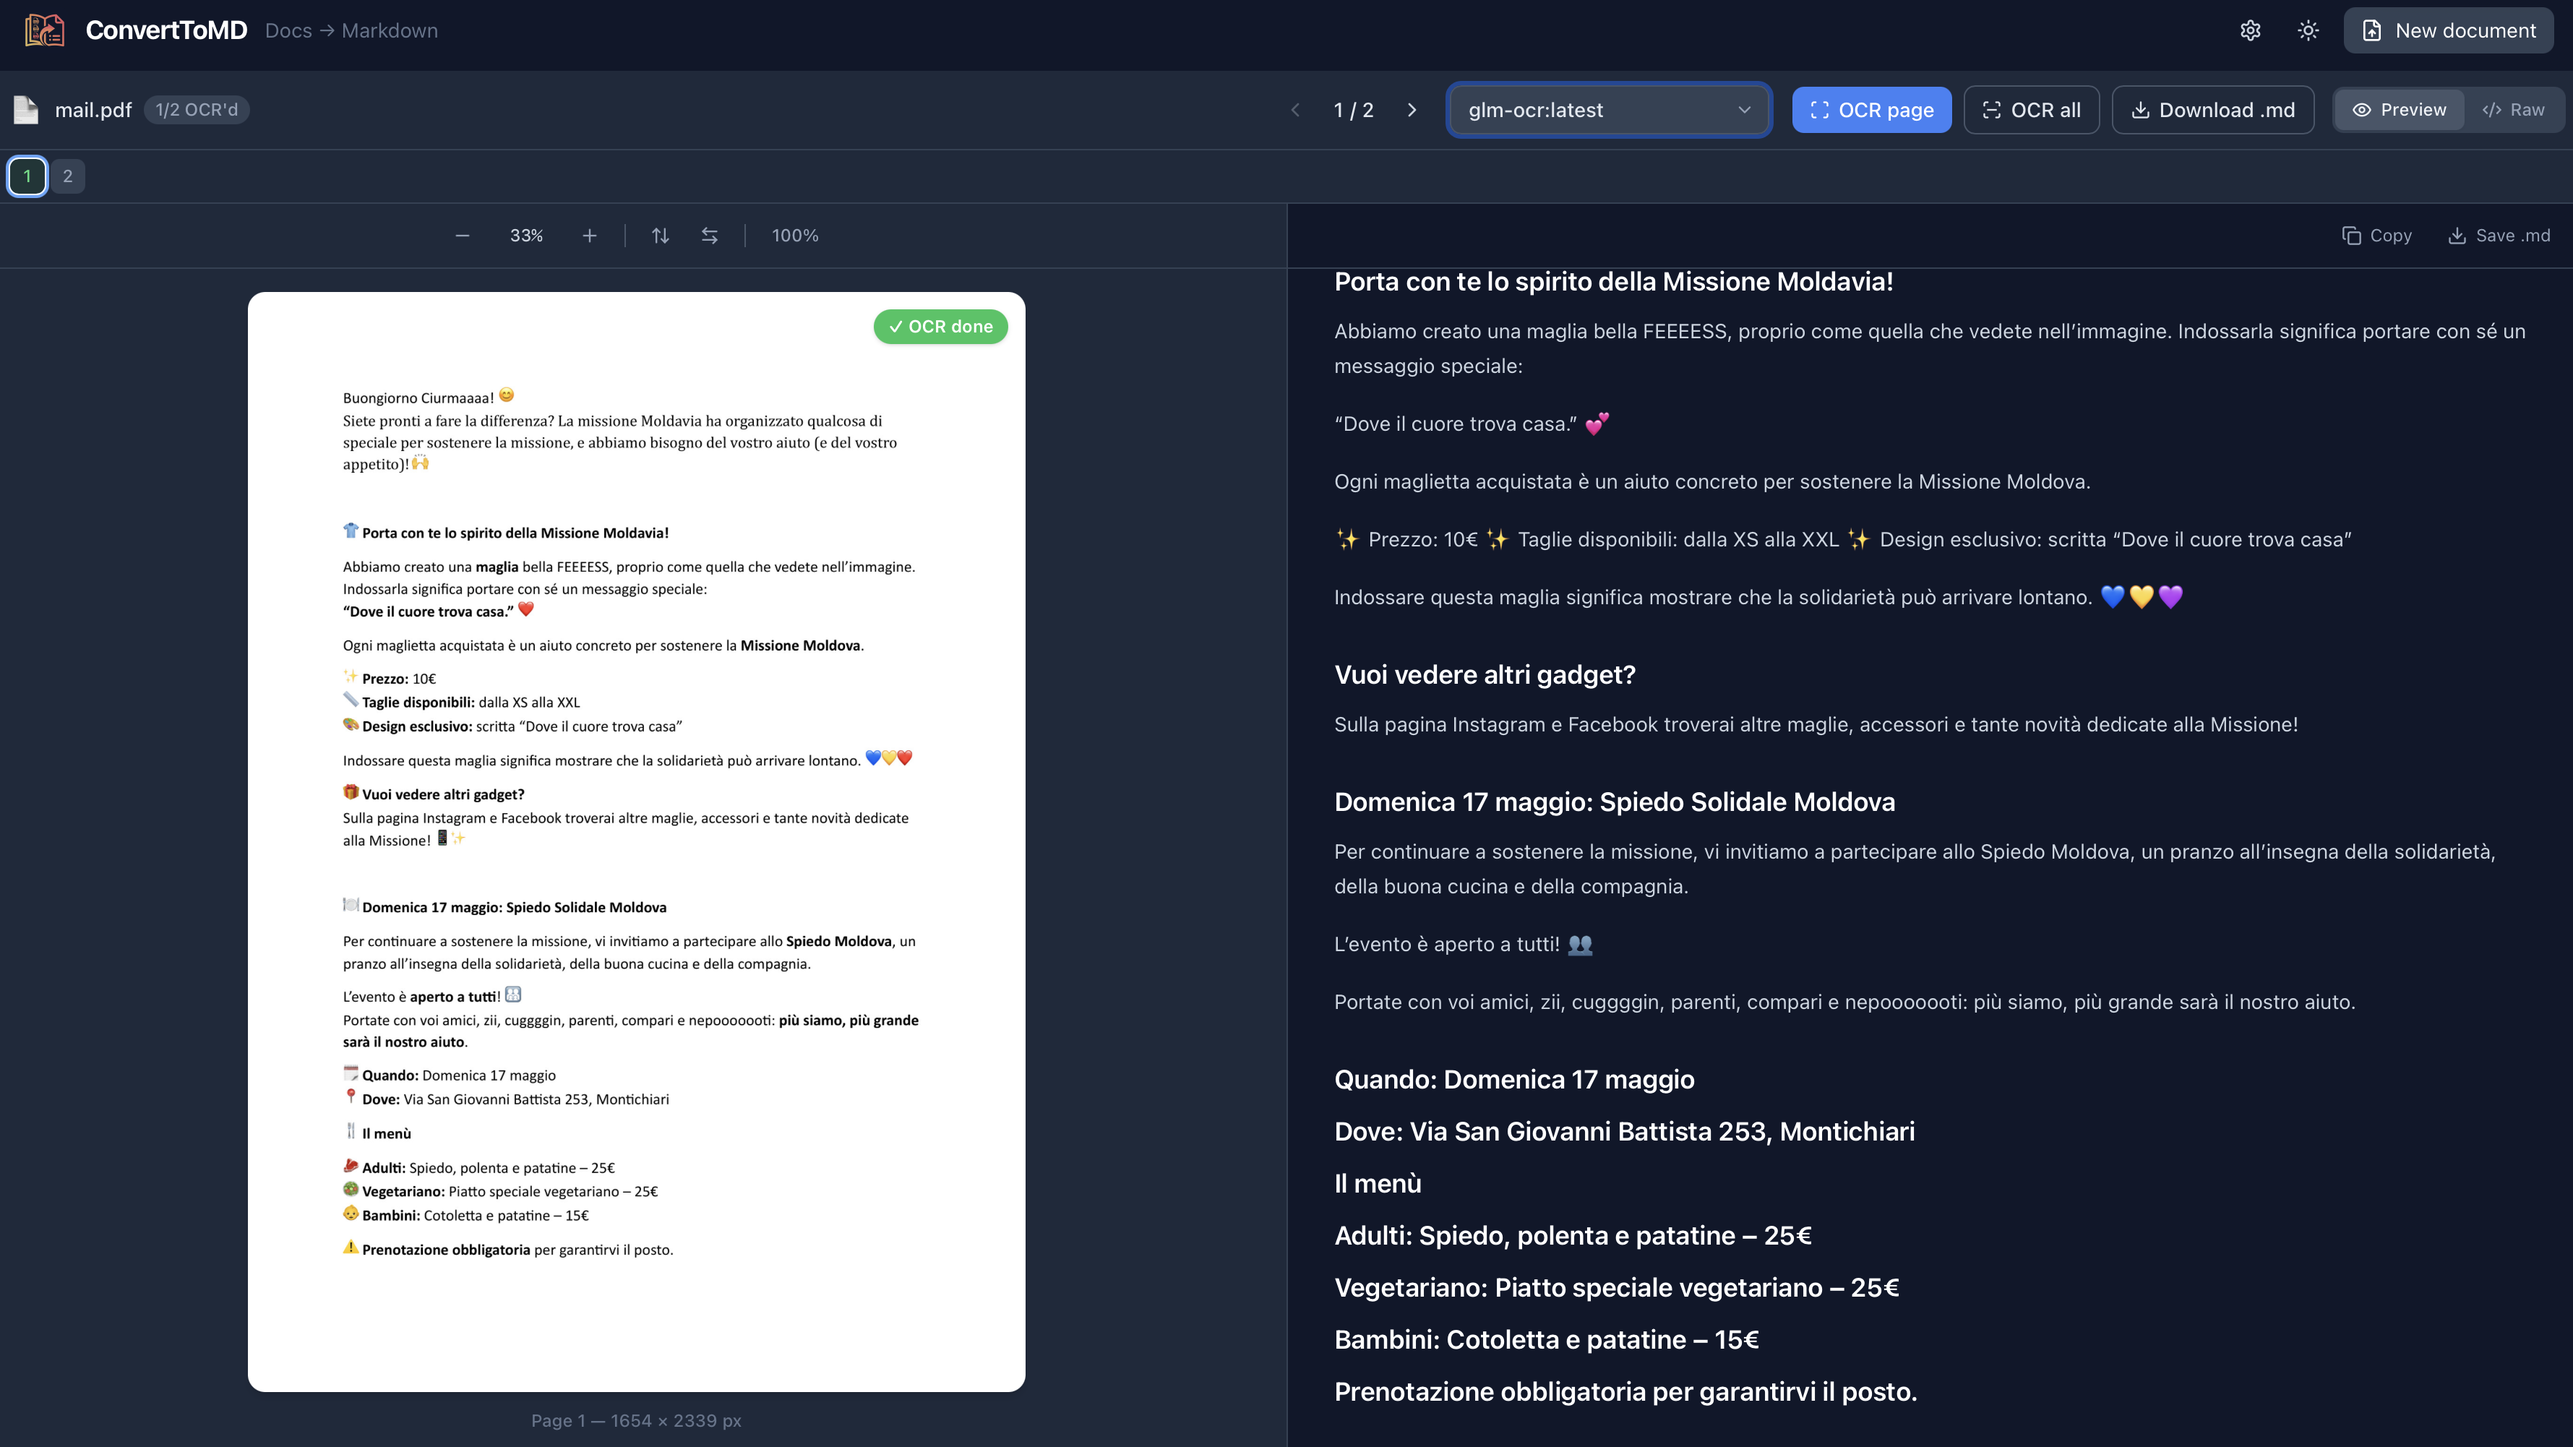
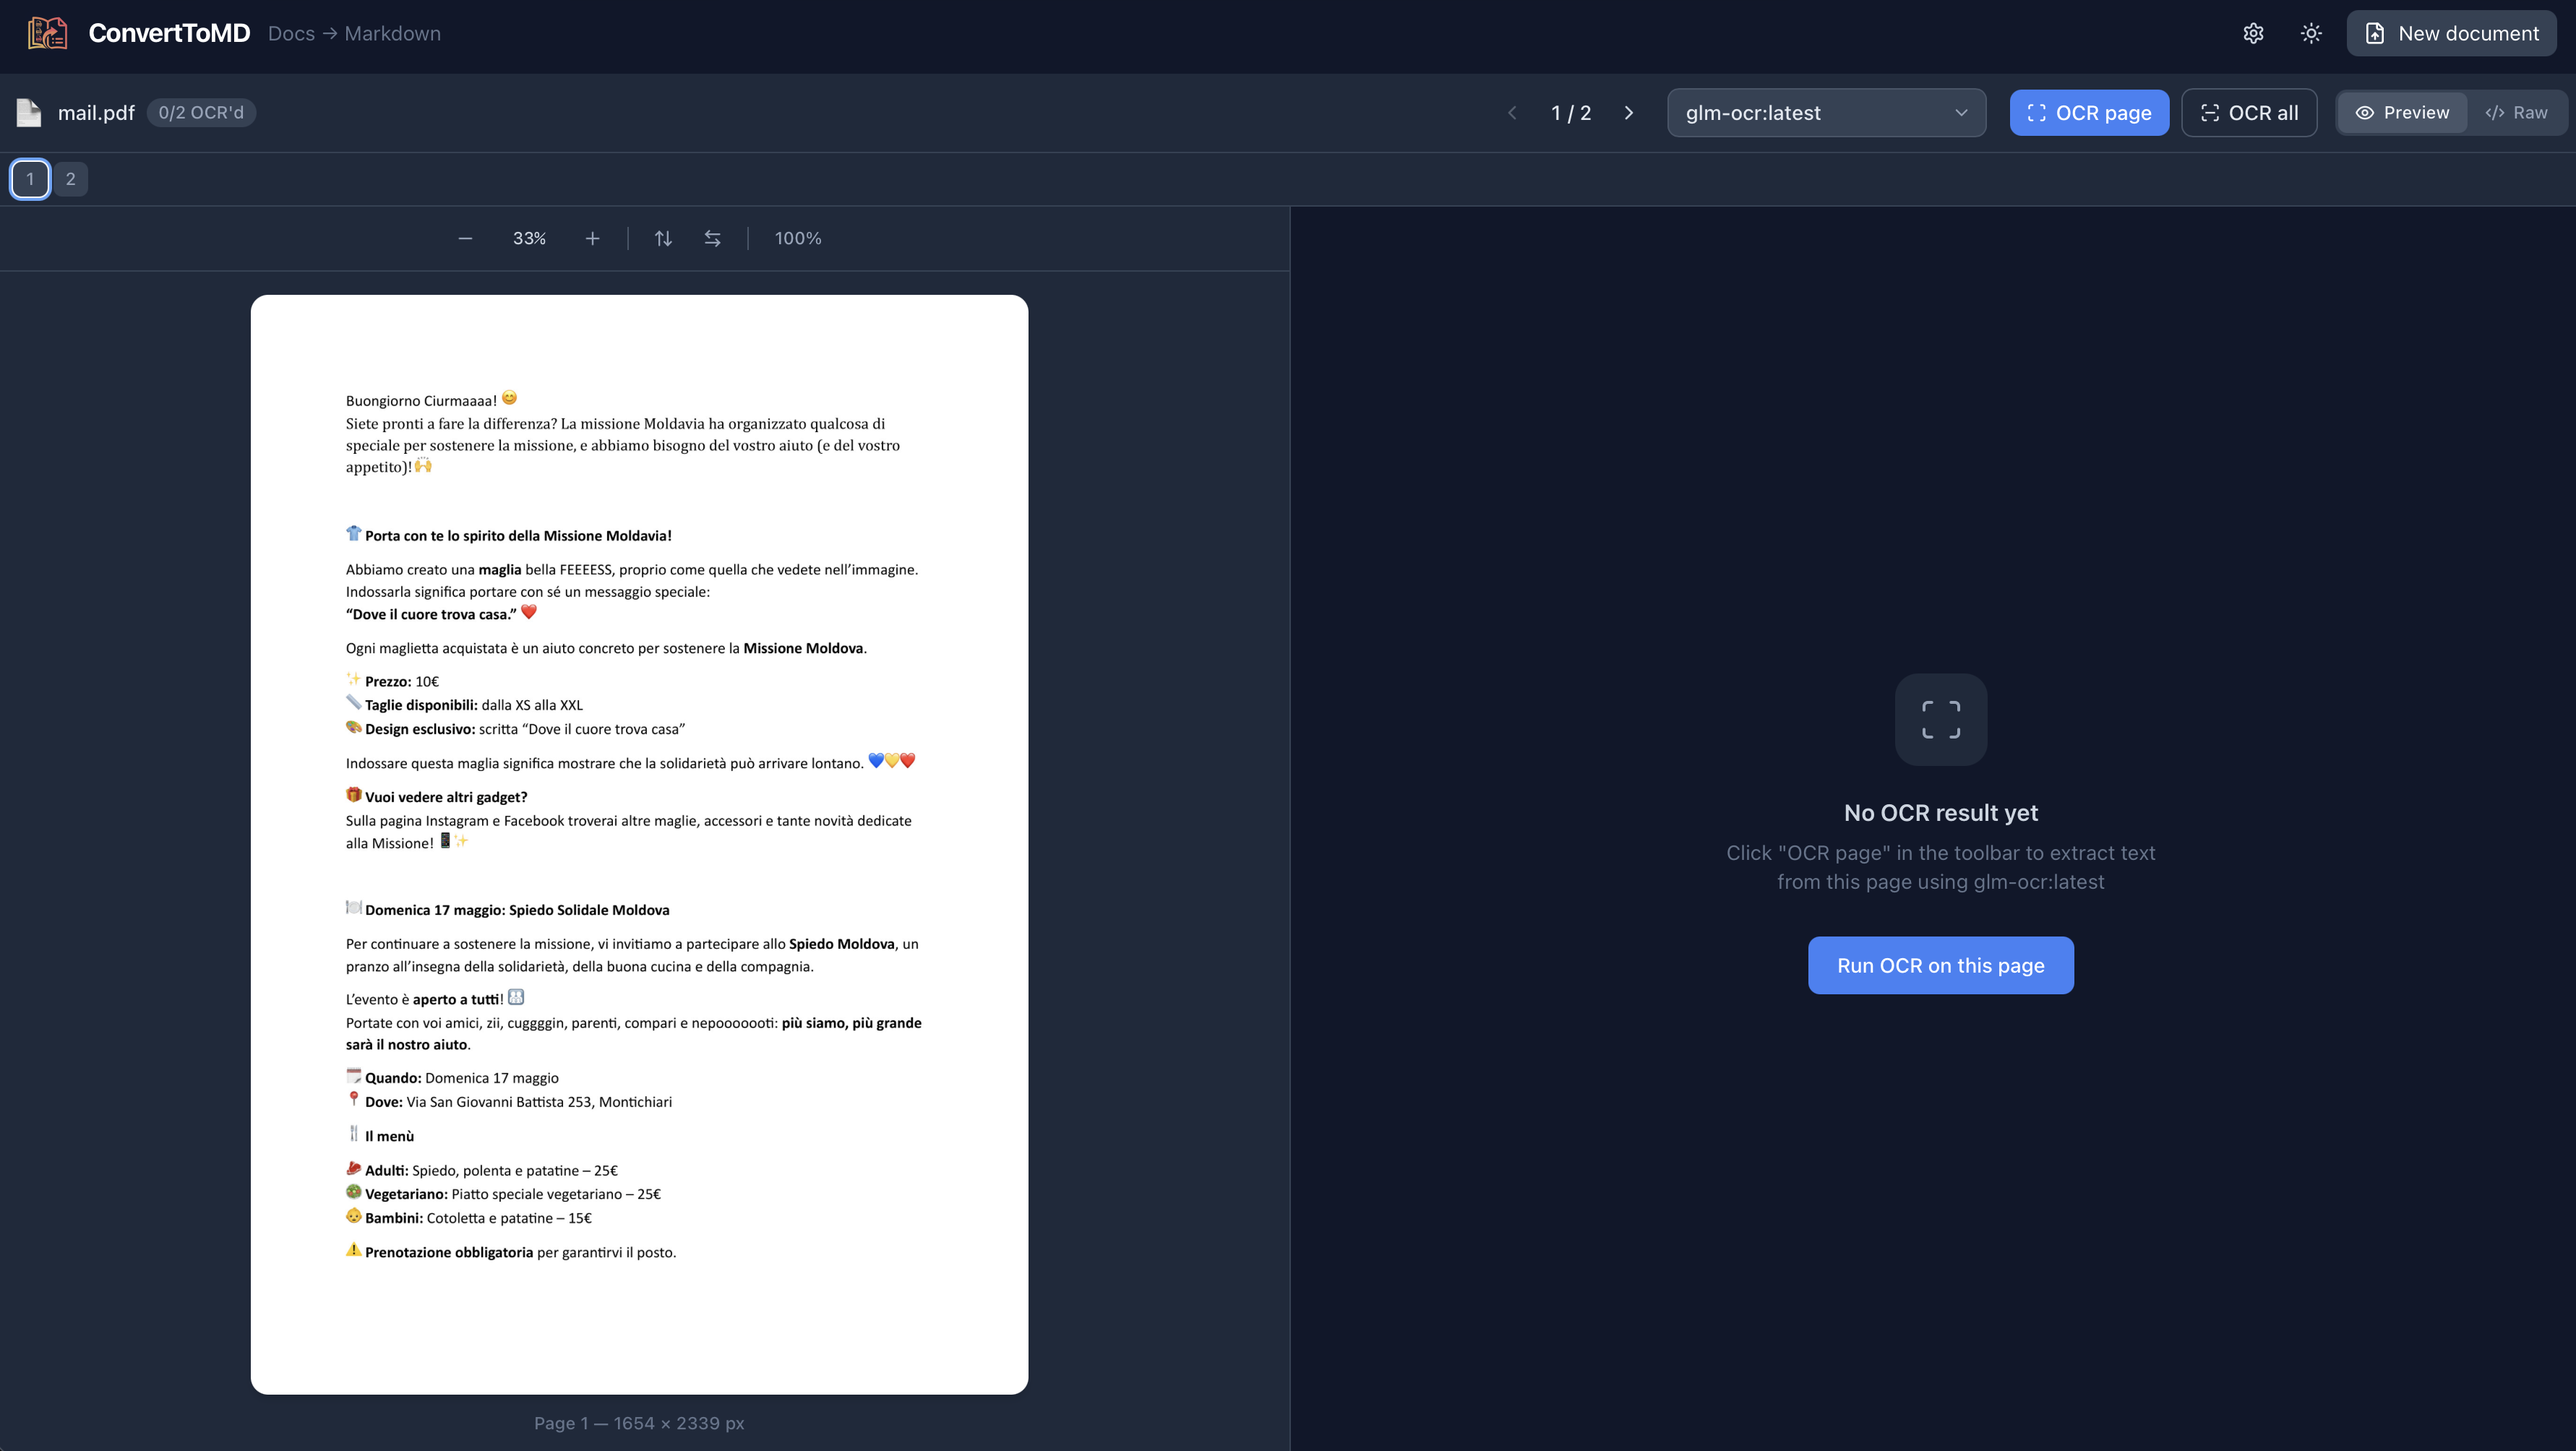
convert2md project

diff --git a/projects/converttomd-web-application.html b/projects/converttomd-web-application.html
@@ -88,20 +88,51 @@
 
     <section class="project-section fade-in">
         <h2>Overview</h2>
-        <p>ConvertToMD is a fully local web application that converts documents — PDF, DOCX, DOC, XLSX, and XLS — into
-            clean Markdown, without sending any file to an external service.</p>
-        <p>A React and HTML front end handles uploads and previews, while a Python/FastAPI backend performs the
-            conversion, using a locally-run LLM through Ollama to help with the document-to-Markdown transformation.
-        </p>
+        <p>ConvertToMD converts PDF, DOCX, DOC, XLSX, and XLS files into clean, well-structured Markdown, entirely on
+            the user's own machine — no document is ever uploaded to an external service. It offers two conversion
+            paths depending on the format: a <strong>direct</strong> mode that parses DOCX and XLSX structurally with
+            <code>python-docx</code> and <code>openpyxl</code>, and an <strong>OCR</strong> mode that renders each
+            page as an image and asks a locally-hosted vision-language model to transcribe it into Markdown. PDFs and
+            the legacy DOC/XLS formats — which have no reliable structural parser — always go through OCR; DOC and
+            XLS files are first bridged to PDF with a headless LibreOffice conversion.</p>
+        <p>The web app is a React front end with a split-view editor: the original page renders on one side, its
+            Markdown output on the other, so every page can be inspected and re-run individually before the file is
+            downloaded. The OCR back end isn't hard-wired to Ollama — a small backend abstraction lets the app talk
+            to Ollama, LM Studio, or any vLLM server that speaks the OpenAI chat-completions API, so the vision model
+            doing the transcription can be swapped without touching the app's logic. A separate CLI script
+            (<code>scripts/convert.py</code>) exposes the same conversion pipeline for batch-processing a whole
+            folder of documents without opening the browser at all.</p>
     </section>
 
     <section class="project-section fade-in">
         <h2>Key features</h2>
-        <!-- TODO: list the main features -->
         <ul class="project-features">
-            <li>Feature one.</li>
-            <li>Feature two.</li>
-            <li>Feature three.</li>
+            <li><strong>Split-view conversion</strong> — the rendered document page sits next to its Markdown output,
+                with a toggle between a rendered preview and the raw Markdown source, so formatting can be checked
+                page by page as it's produced.</li>
+            <li><strong>Per-page or one-click OCR</strong> — each page can be converted individually, or the whole
+                document can be queued with "OCR all," which skips pages already marked done so a run can be
+                resumed after an interruption.</li>
+            <li><strong>Direct structural extraction for DOCX/XLSX</strong> — Word documents keep their heading
+                levels, bold/italic runs and tables; Excel workbooks are walked sheet by sheet into Markdown tables.
+                Both are deterministic and don't touch the OCR model at all.</li>
+            <li><strong>Pluggable local LLM backend</strong> — a settings panel lets the OCR server be pointed at
+                Ollama, LM Studio, or vLLM, with a "test connection" step that lists the models actually available
+                on that server before one is picked as default.</li>
+            <li><strong>Per-page model override</strong> — the model used for OCR can be changed page by page, useful
+                for re-running a page that came out garbled with a different model without restarting the whole
+                document.</li>
+            <li><strong>Download as Markdown</strong> — the direct-mode result or the combined per-page OCR output
+                downloads as a single <code>.md</code> file, generated client-side with no round trip to the
+                server.</li>
+            <li><strong>Dark mode</strong> — the whole interface, including the split-view editor and settings modal,
+                has a dark theme toggle.</li>
+            <li><strong>CLI batch converter</strong> — <code>scripts/convert.py</code> processes an entire input
+                folder to Markdown outside the browser, with flags for the conversion mode, render DPI, OCR model,
+                Ollama endpoint, and per-page timeout, and skips files it has already converted unless
+                <code>--force</code> is passed.</li>
+            <li><strong>100% local</strong> — no file leaves the machine and no API key is required by default; the
+                OCR step runs entirely against a locally-hosted model server.</li>
         </ul>
     </section>
 
@@ -110,27 +141,33 @@
         <div class="project-stack-grid">
             <div class="project-stack-item">
                 <h3>Python</h3>
-                <p>Why/how it was used.</p>
+                <p>Backend language for the FastAPI service, the DOCX/XLSX converters, and the standalone CLI batch
+                    script.</p>
             </div>
             <div class="project-stack-item">
                 <h3>FastAPI</h3>
-                <p>Why/how it was used.</p>
+                <p>Exposes the REST API — upload, direct conversion, PDF bridging, per-page OCR, and settings/model
+                    endpoints — consumed by the React front end.</p>
             </div>
             <div class="project-stack-item">
                 <h3>React</h3>
-                <p>Why/how it was used.</p>
+                <p>Drives the whole interface: the upload zone, the mode-selection step, the split-view editor with
+                    its page strip and model picker, and the settings modal — built with Vite and Tailwind CSS.</p>
             </div>
             <div class="project-stack-item">
                 <h3>HTML</h3>
-                <p>Why/how it was used.</p>
+                <p>Markup foundation for the app shell and the Vite-built static output served to the browser.</p>
             </div>
             <div class="project-stack-item">
                 <h3>Ollama</h3>
-                <p>Why/how it was used.</p>
+                <p>Default local model server for the OCR path — runs the vision-language model that turns a
+                    rendered page image into Markdown, with no data leaving the machine.</p>
             </div>
             <div class="project-stack-item">
                 <h3>LLM</h3>
-                <p>Why/how it was used.</p>
+                <p>A vision-language model (<code>glm-ocr</code> by default) reads each rendered page image and
+                    returns structured Markdown — headings, tables, lists — through a backend-agnostic interface
+                    that also supports LM Studio and vLLM.</p>
             </div>
         </div>
     </section>

diff --git a/static/gallery/converttomd-web-application/images.js b/static/gallery/converttomd-web-application/images.js
@@ -1,2 +1,2 @@
 window.__galleryImages = window.__galleryImages || {};
-window.__galleryImages["converttomd-web-application"] = ["0.png", "1.png"];
+window.__galleryImages["converttomd-web-application"] = ["0.png", "1.png", "2.png"];
